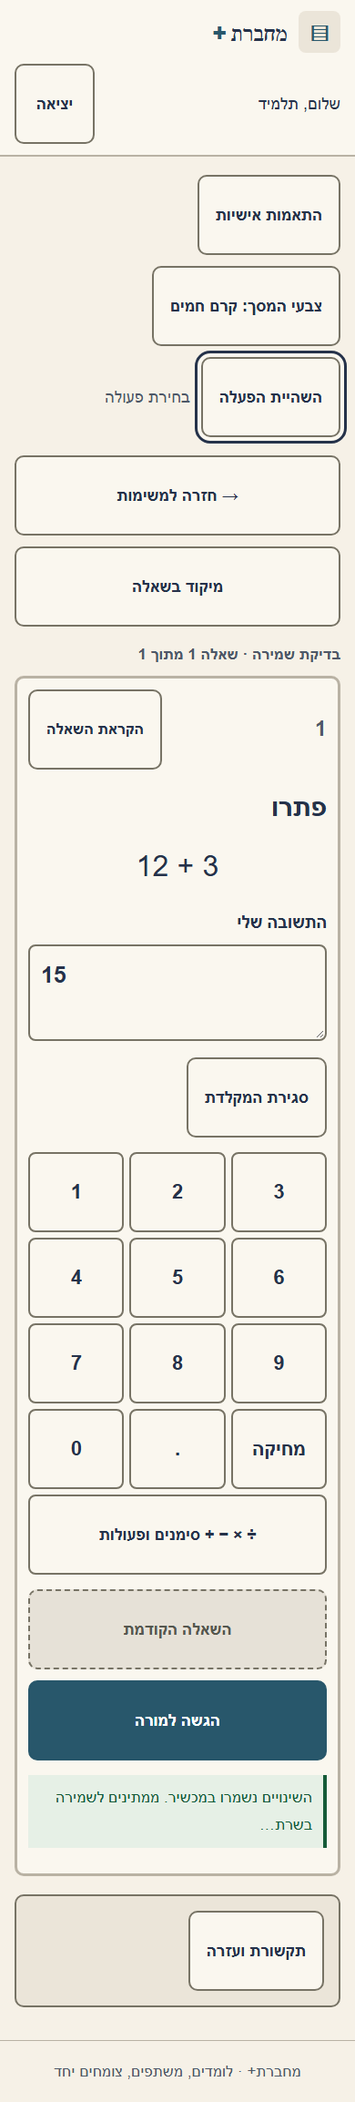
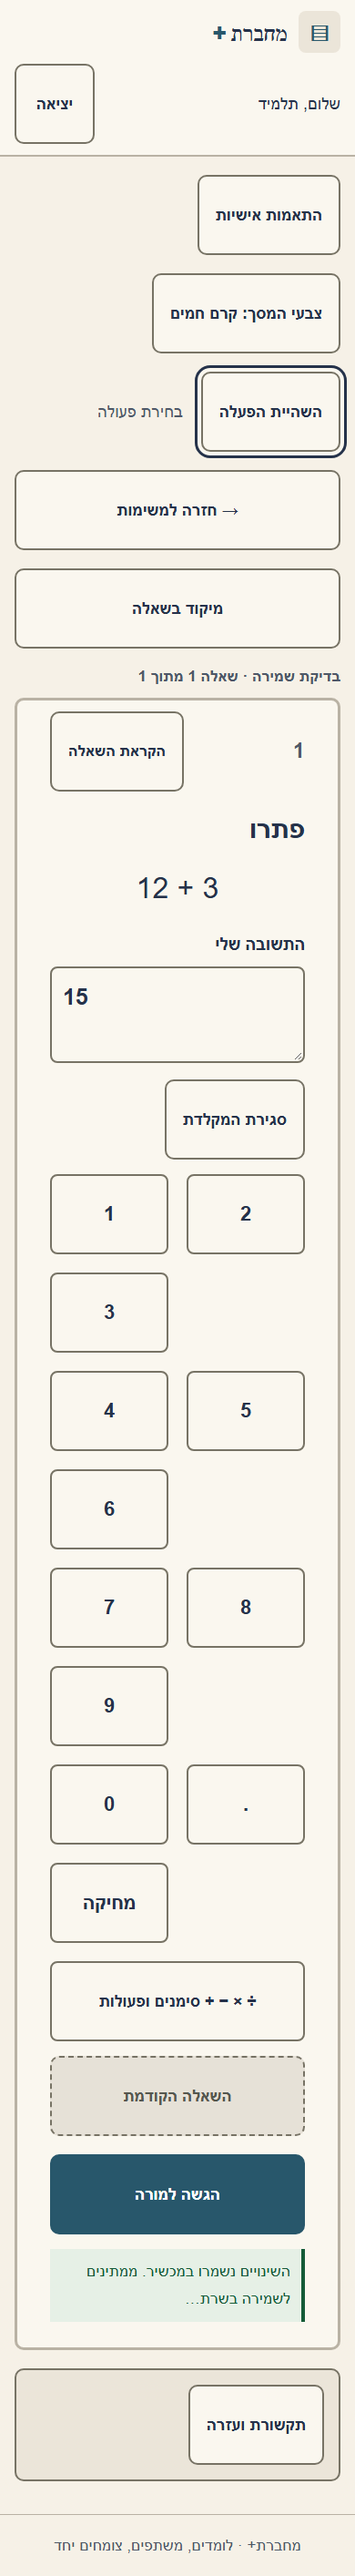
Restore assistive control spacing and audit pilot completion gates

diff --git a/tests/e2e/pdf-page.spec.ts b/tests/e2e/pdf-page.spec.ts
@@ -1,0 +1,70 @@
+import { test, expect } from "@playwright/test";
+import { studentFixture } from "./helpers";
+
+function twoPagePdf() {
+  const first = "BT /F1 24 Tf 30 100 Td (12 + 3) Tj ET";
+  const second = "BT /F1 24 Tf 30 200 Td (20 - 4) Tj ET";
+  const objects = [
+    "<< /Type /Catalog /Pages 2 0 R >>",
+    "<< /Type /Pages /Kids [3 0 R 4 0 R] /Count 2 >>",
+    "<< /Type /Page /Parent 2 0 R /MediaBox [0 0 300 200] /Resources << /Font << /F1 5 0 R >> >> /Contents 6 0 R >>",
+    "<< /Type /Page /Parent 2 0 R /MediaBox [0 0 200 300] /Resources << /Font << /F1 5 0 R >> >> /Contents 7 0 R >>",
+    "<< /Type /Font /Subtype /Type1 /BaseFont /Helvetica >>",
+    `<< /Length ${first.length} >>\nstream\n${first}\nendstream`,
+    `<< /Length ${second.length} >>\nstream\n${second}\nendstream`,
+  ];
+  let data = "%PDF-1.4\n";
+  const offsets = [0];
+  objects.forEach((object, i) => {
+    offsets.push(data.length);
+    data += `${i + 1} 0 obj\n${object}\nendobj\n`;
+  });
+  const xref = data.length;
+  data += `xref\n0 8\n0000000000 65535 f \n${offsets
+    .slice(1)
+    .map((offset) => `${String(offset).padStart(10, "0")} 00000 n \n`)
+    .join("")}trailer\n<< /Size 8 /Root 1 0 R >>\nstartxref\n${xref}\n%%EOF`;
+  return Buffer.from(data, "ascii");
+}
+
+test("PDF upload renders only the selected page and persists that page as the source", async ({
+  page,
+  browser,
+}) => {
+  const { context } = await studentFixture(page, browser);
+  try {
+    await page.goto("/");
+    await page.getByRole("button", { name: "משימה חדשה" }).click();
+    await page
+      .locator("input[type=file]")
+      .first()
+      .setInputFiles({
+        name: "two-pages.pdf",
+        mimeType: "application/pdf",
+        buffer: twoPagePdf(),
+      });
+    const source = page.getByAltText("דף המקור");
+    const ratio = () =>
+      source.evaluate(
+        (image: HTMLImageElement) => image.naturalWidth / image.naturalHeight,
+      );
+    await expect.poll(ratio).toBeCloseTo(1.5);
+    await expect(source).toHaveCount(1);
+    const number = page.getByRole("spinbutton", { name: /עמוד מתוך 2/ });
+    await number.fill("3");
+    await expect(
+      page.getByRole("button", { name: "טעינת עמוד" }),
+    ).toBeDisabled();
+    await number.fill("2");
+    await page.getByRole("button", { name: "טעינת עמוד" }).click();
+    await expect.poll(ratio).toBeCloseTo(2 / 3);
+    await page.getByLabel("שם המשימה").fill("עמוד שני מתוך PDF");
+    await page.getByLabel("נוסח השאלה").fill("פתרו");
+    await page.getByLabel("ביטוי מתמטי").fill("20 - 4");
+    await page.getByRole("button", { name: "שמירת טיוטה" }).click();
+    await expect(source).toHaveAttribute("src", /\/api\/media\//);
+    await expect.poll(ratio).toBeCloseTo(2 / 3);
+  } finally {
+    await context.close();
+  }
+});

diff --git a/tests/e2e/assistive-spacing.spec.ts b/tests/e2e/assistive-spacing.spec.ts
@@ -1,0 +1,58 @@
+import { test, expect } from "@playwright/test";
+import { studentFixture } from "./helpers";
+
+test("assistive keys keep 88px targets, 20px separation and primary edge clearance without phone overflow", async ({
+  page,
+  browser,
+}) => {
+  const { student, context } = await studentFixture(page, browser);
+  try {
+    await student.getByRole("button", { name: "התחל עבודה" }).click();
+    if (!(await student.locator(".keyboard-groups").isVisible())) {
+      await student.getByRole("button", { name: "פתיחת מקלדת" }).click();
+    }
+    await student.getByRole("button", { name: "התאמות אישיות" }).click();
+    for (const mode of ["motor", "gaze", "switch"]) {
+      await student
+        .getByLabel("דרך ההפעלה", { exact: true })
+        .selectOption(mode);
+      for (const width of [320, 390, 768]) {
+        await student.setViewportSize({ width, height: 900 });
+        const rows = student.locator(".keyboard-row");
+        const geometry = await rows.first().evaluate((el) => ({
+          gap: parseFloat(getComputedStyle(el).gap),
+          keys: [...el.querySelectorAll("button")].map((button) => ({
+            width: button.getBoundingClientRect().width,
+            height: button.getBoundingClientRect().height,
+          })),
+        }));
+        expect(geometry.gap).toBeGreaterThanOrEqual(20);
+        expect(
+          geometry.keys.every((key) => key.width >= 88 && key.height >= 88),
+        ).toBe(true);
+        expect(
+          await student.evaluate(() => document.documentElement.scrollWidth),
+        ).toBeLessThanOrEqual(width);
+        const submit = await student
+          .getByRole("button", { name: "הגשה למורה" })
+          .boundingBox();
+        expect(submit!.x).toBeGreaterThanOrEqual(48);
+        expect(width - submit!.x - submit!.width).toBeGreaterThanOrEqual(48);
+      }
+    }
+    await student
+      .getByLabel("דרך ההפעלה", { exact: true })
+      .selectOption("standard");
+    const key = student
+      .locator(".keyboard-groups")
+      .getByRole("button", { name: "1", exact: true });
+    const tabletKey = await key.boundingBox();
+    expect(tabletKey!.height).toBeGreaterThanOrEqual(64);
+    await student.setViewportSize({ width: 390, height: 844 });
+    expect(
+      (await student.locator(".keyboard-groups").boundingBox())!.height,
+    ).toBeLessThan(300);
+  } finally {
+    await context.close();
+  }
+});

diff --git a/src/styles.css b/src/styles.css
@@ -790,6 +790,7 @@ audio {
 }
 .keyboard-groups {
   --key-target: 88px;
+  container-type: inline-size;
   display: grid;
   gap: 6px;
   margin: 16px auto;
@@ -797,6 +798,28 @@ audio {
 }
 .access-root[data-access-mode="standard"] .keyboard-groups {
   --key-target: 48px;
+}
+@media (min-width: 600px) {
+  .access-root[data-access-mode="standard"] .keyboard-groups {
+    --key-target: 64px;
+  }
+}
+.access-root:not([data-access-mode="standard"])
+  :is(
+    .keyboard-groups,
+    .keyboard-row,
+    .keyboard-symbols,
+    .actions,
+    .access-toolbar,
+    .workbook-toolbar,
+    .question-nav
+  ) {
+  gap: 20px;
+}
+@container (max-width: 303px) {
+  .access-root:not([data-access-mode="standard"]) .keyboard-row {
+    grid-template-columns: repeat(2, minmax(88px, 1fr));
+  }
 }
 .keyboard-groups button {
   min-width: var(--key-target);
@@ -973,6 +996,11 @@ audio {
   }
   .question {
     padding: 6px;
+  }
+}
+@media (max-width: 600px) {
+  .access-root:not([data-access-mode="standard"]) .question {
+    padding-inline: 36px;
   }
 }
 @media (prefers-reduced-motion: reduce) {

diff --git a/tests/live/assistive-spacing.spec.ts b/tests/live/assistive-spacing.spec.ts
@@ -1,0 +1,10 @@
+import "../e2e/assistive-spacing.spec";
+import { test, expect } from "@playwright/test";
+test.afterEach(async ({ page }) => {
+  const origin = new URL(page.url()).origin;
+  const response = await page.request.delete(`${origin}/api/account`, {
+    headers: { Origin: origin },
+    data: {},
+  });
+  expect([200, 401]).toContain(response.status());
+});

diff --git a/docs/pilot-completion-audit.md b/docs/pilot-completion-audit.md
@@ -1,0 +1,62 @@
+# Original pilot brief: completion audit
+
+Audited 2026-10-31 against the original attached brief, current source, browser tests and deployment evidence. This is a completion gate, not a claim that participant trials have happened. The preceding goal turn made progress: deployed saved student themes with eight passing live scenarios.
+
+## Scope and subsequent instructions
+
+The original sequence remains capture → confirm → assign → solve → review → share → acknowledge. Later user feedback added classrooms, handwritten-math recognition, corrections, per-exercise marking and personal color themes. Later approved accessibility work replaced the 85% dark spotlight mask with a question outline so navigation/help remain readable. The user explicitly requested a compact phone keypad; its 48px standard-phone targets are intentional, while standard tablet and assistive-mode requirements remain applicable.
+
+## Requirement evidence
+
+| Requirement | Current evidence | Completion status |
+| --- | --- | --- |
+| Deployed Hebrew-first persistent service | `server/index.ts`, deployment log in `readiness.md`; live same-origin API/UI | Software verified; participant use not demonstrated |
+| Teacher image and parent photo upload | `Capture.tsx`, `ParentCapture.tsx`; `capture.spec.ts`, live workflow | Browser verified; real camera/device permission behavior pending |
+| PDF page selection, one page at a time | `pageFile.ts`, PDF/page controls; `pdf-page.spec.ts` passes with generated two-page PDF, out-of-range rejection and saved source aspect ratio | Selected-page rendering/persistence browser verified; representative real classroom PDFs still need field checks |
+| Crop, rotate and perspective | `ImageEditor.tsx`, geometry tests, image-editor browser tests | Automated geometry/interaction verified |
+| Printed Hebrew and supported math recognition | local recognition implementation; printed fixture browser test | Fixture verified; representative classroom-page accuracy pending |
+| Source preview, correction, selection and adult confirmation | capture implementation; assignment confirmation API tests and capture workflow | Automated workflow verified |
+| Manual creation when recognition fails | capture editor and local-recognition-controls tests | Automated workflow verified |
+| One mission, start/resume, separate completed work, teacher audio | student source, workflow/returned tests, live audio workflow | Automated workflow verified |
+| One active question and answer; Hebrew and isolated LTR math | student/MathAnswer/MathText source, accessibility and workflow tests | Rendered browser checks; actual RTL reading order with TalkBack pending |
+| Vertical arithmetic with carry/borrow cells | MathAnswer and AnswerView; vertical two-switch browser scenario | Browser entry/review verified |
+| Fractions and basic equations | MathText, mathSpeech, formula/export tests and supplied-photo recognition | Parsing/rendering coverage; representative participant comprehension pending |
+| Read-aloud, Nikud, editable spoken text, recorded alternative | interaction tests preserve Nikud and substitute operators; Access speech; capture spokenText; live audio | Text transformation/recorded audio verified; actual installed Hebrew voice pronunciation pending |
+| Spotlight, autosave, submission, resumability | outline spotlight per later instruction; recovery/conflict/corrections and live workflow tests | Automated workflow verified |
+| AAC help/clarification/break/finished dock | student AAC source and access workflow | Implemented; actual assistive-device operation pending |
+| Teacher marks, return/retry, stickers, 15-second recording | review source, API duration bound, marking/corrections tests, live voice workflow | Automated lifecycle verified; natural microphone recording on participant phone pending |
+| Account-free parent view, listen and acknowledge | parent routes/UI; live workflow and revocation assertions | Automated workflow verified |
+| Calm palette and personal preferences | three themes, direct menu, theme scans and persisted preference tests | Automated contrast/state checks; student comfort preference needs observation |
+| 64px standard-tablet / 88px assistive targets, 20px gaps, 48px primary edge clearance | assistive-spacing regression found 6px key gaps; CSS corrected; seven targeted browser tests passed | Key geometry and submission edge clearance verified at 320/390/768px; not a whole-product geometry certification |
+| 800–1500ms dwell, progress/cancel/pause; no duplicate app/device dwell | validated preferences, interaction state-machine tests, app dwell/touch browser tests | Software behavior verified; actual device dwell integration pending |
+| Keyboard and two-switch entry/correction | `access.spec.ts`, keyboard regression suite | Emulated keyboard switches verified; physical switch hardware pending |
+| Eye-gaze and switch on actual participant devices | No actual-device evidence provided; `adb` unavailable on this workstation | **Not achieved: requires device/operator access** |
+| Teacher/student permissions and protected sessions | auth/loadActor; API and classroom isolation tests | Automated authorization verified |
+| Persistent source/answers/preferences/audio/acknowledgement | D1/media code, API lifecycle and live tests; fresh `node scripts/smoke-production.mjs` run passed on current build | Current answer/session persistence across worker restart verified; synthetic account removed |
+| Draft → assigned → in progress → submitted → reviewed/returned → acknowledged | guarded server transitions; workflow/corrections tests | Automated transitions verified |
+| Recoverable saves/uploads/OCR failures and retry | recovery/conflict and local recognition cancellation tests; visible useAction errors | Tested failure paths; all device/network combinations not established |
+| Expiring/revocable assignment-scoped parent links | assignments/media authorization; expiry/revocation API/live tests | Automated restrictions verified |
+| Teacher-initiated WhatsApp/share/copied link | explicit share link and clipboard actions in review UI | Link generation/copy present; actual WhatsApp handoff on phone pending |
+| Downloadable/printable completed answers and feedback | export/WorkRecord, export tests, live download assertions | HTML with audio verified; physical print and accessible PDF are not claimed |
+| Consent, deletion and minimal measurements; no background capture | consent checks, account/student deletion tests, observation route, explicit recorder/camera actions | Software controls verified; school consent/retention execution is a field responsibility |
+| Adult confirmation and teacher authority | confirmation gate, manual correct/retry decisions | Automated gating verified; no automatic grading |
+
+## Field gates and outcomes still unproven
+
+The brief proposes four weeks after readiness, 10–15 students, 3–5 teachers/therapists and parents, and at least three short assignments per student weekly. No recruitment, actual participant baseline or four-week observation results have been supplied. `pilot-protocol.md` defines the procedure; `pilot/metrics.ts` and the observation/export screens support measurement. Their existence does not prove outcomes.
+
+| Original outcome target | Evidence needed |
+| --- | --- |
+| ≥80% reach review without a technical blocker | Actual assigned/reviewed lifecycle records reconciled with assignment incident log |
+| ≥30% fewer interface interventions | Paired baseline/app observations per student and input mode, teaching help separate |
+| ≥90% no extra worksheet/editor app | Actual session observations, excluding established assistive tools |
+| Median preparation ≤180 seconds | Capture-to-confirm timing including OCR corrections on actual assignments |
+| Median marking ≤10 seconds/exercise | Marking timing separated from reading and recording |
+| ≥70% parent acknowledgement within 48 hours | Actual shares/acknowledgements with still-open windows excluded |
+| No unresolved saved-work loss, access defect or blocking navigation | Device-specific acceptance plus incident log and regression evidence |
+
+The original definition of done explicitly names a participating student using their configured access method. Synthetic browser success does not satisfy that participant-specific gate. The active goal is therefore **not proven complete**. Requested device models, assistive tools and a teacher/therapist operator; no new participant data should be invented or obtained by messaging others without authorization.
+
+## Audit-turn verification
+
+Corrected assistive keypad spacing after a failing regression measured 6px rather than 20px. Seven local spacing/access/keyboard scenarios passed, plus the new PDF-page browser scenario, production build and current restart persistence smoke. Four live spacing/keyboard scenarios passed on Worker `f71539cc-eb0d-4266-8d45-efe24ec501e5`; synthetic accounts cleaned up. No schema change. Actual participant hardware remains unavailable; this is the first explicit blocker-audit turn, not grounds to mark the entire goal achieved or blocked yet.

diff --git a/docs/readiness.md b/docs/readiness.md
@@ -1,8 +1,14 @@
 # Readiness evidence — 2026-10-31
 
-## Student theme menu update
+## Original-brief audit and assistive spacing
 
-Current deployed version: `6d29c425-9d89-40ac-99d2-bb0e661c1c01`. Warm cream default plus pale blue/dark slate, a direct student toolbar menu, immediate per-student saving and a reset that preserves other settings. Readable state/focus/error palettes and forced-color/print overrides included. Independent review's save-focus and delayed-load races fixed and regression-tested.
+Current deployed version: `f71539cc-eb0d-4266-8d45-efe24ec501e5`. Corrected assistive keypad gaps to 20px while retaining 88px targets, reflowed narrow keyboards to avoid overflow, restored 64px standard tablet keys and preserved compact standard phone keys. Seven local access/keyboard/spacing checks, four live checks, production build, a new PDF page-selection/persistence test and current worker-restart persistence smoke passed. Synthetic accounts cleaned up; no schema changes.
+
+See pilot-completion-audit.md for requirement-by-requirement evidence. Actual participant-device validation and field outcomes remain unproven; software acceptance alone does not close the original goal.
+
+## Earlier student theme menu update
+
+Previously deployed version: `6d29c425-9d89-40ac-99d2-bb0e661c1c01`. Warm cream default plus pale blue/dark slate, a direct student toolbar menu, immediate per-student saving and a reset that preserves other settings. Readable state/focus/error palettes and forced-color/print overrides included. Independent review's save-focus and delayed-load races fixed and regression-tested.
 
 Verification: 70 unit/API tests, 25 local browser tests (one optional private-photo test skipped), build, seven targeted browser checks after the final focus/loading fixes, and eight final live scenarios passed. Live checks cover theme persistence/reset/failure recovery, contrast, keyboard/mobile input and the worksheet-to-parent workflow. Synthetic accounts deleted; no migration. Actual Android/TalkBack participant testing and initial cream flash before authentication remain documented limitations.
 

diff --git a/docs/progress.md b/docs/progress.md
@@ -1,4 +1,4 @@
-# Execution ledger
+# Execution ledger
 
 Plan: docs/superpowers/plans/2026-10-30-machberet-pilot.md. Scope: docs/pilot-brief.txt.
 
@@ -38,3 +38,6 @@ Verified 70 unit/API tests, 24 local browser tests (one optional private-photo O
 Implemented cream default, pale blue/dark slate options and a visible student toolbar menu with large labeled choices, selected state, immediate save, reset and close. Atomic actor-scoped theme patch preserves other preferences. Failed saves roll back visibly. Review found disabled-trigger focus and stale loading races; both resolved and tested.
 
 70 unit/API tests, 25 browser tests (one optional private-photo OCR skipped), build and seven targeted final browser checks passed. Eight live scenarios passed on `6d29c425-9d89-40ac-99d2-bb0e661c1c01`; synthetic data cleaned up. No database migration. Screenshots: artifacts/theme-*-mobile.png. Theme choice is personal presentation, not a diagnosis-based treatment; physical device/participant testing remains outstanding.
+## Original-brief completion audit
+
+The previous theme turn made verified progress. Re-read the full attached brief and created pilot-completion-audit.md covering requirements, later user amendments, evidence and field gaps. Found and corrected 6px assistive key spacing; now 20px with 88px targets, narrow reflow and 48px primary submission edge clearance. Standard tablet keys 64px; compact phone keys preserved. Seven local and four live spacing/access/keyboard checks, build, new PDF selected-page persistence test and fresh restart smoke passed. Deployed f71539cc-eb0d-4266-8d45-efe24ec501e5. Actual participant Android/gaze/switch access and operator results are missing; requested them via asynchronous question. Goal remains active, not claimed complete. Blocker audit first explicit turn; meaningful software/evidence progress was made.
